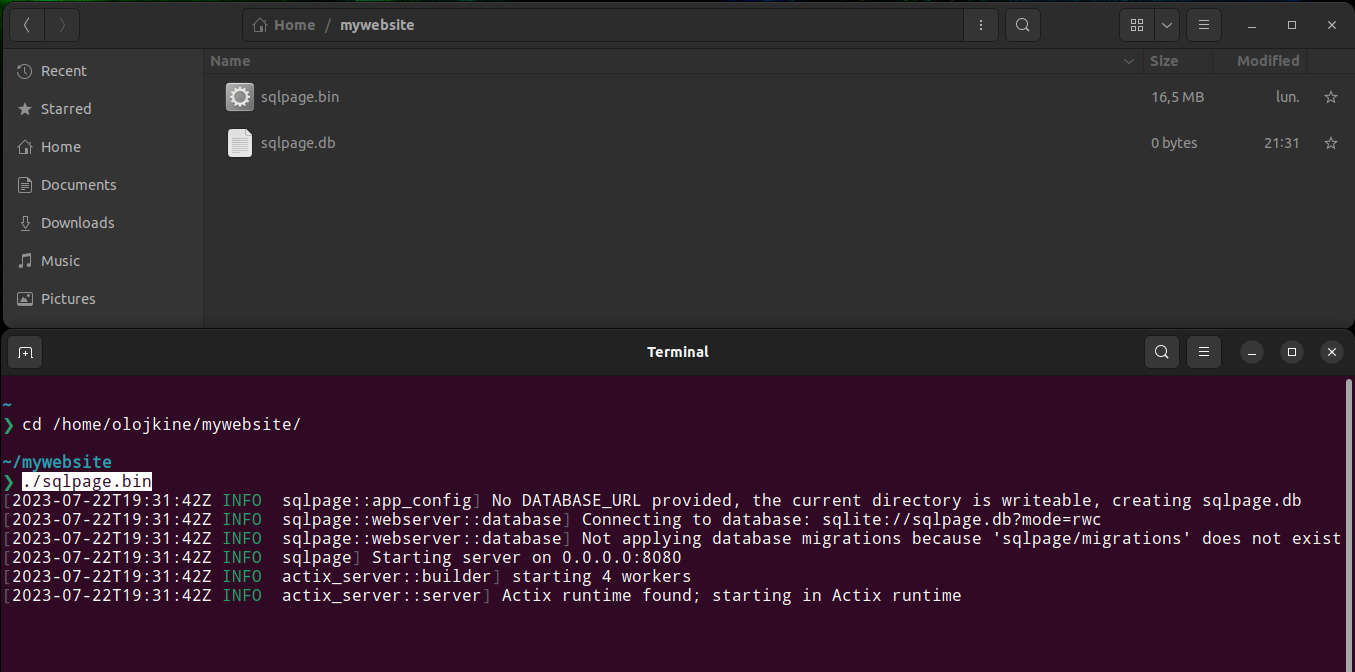
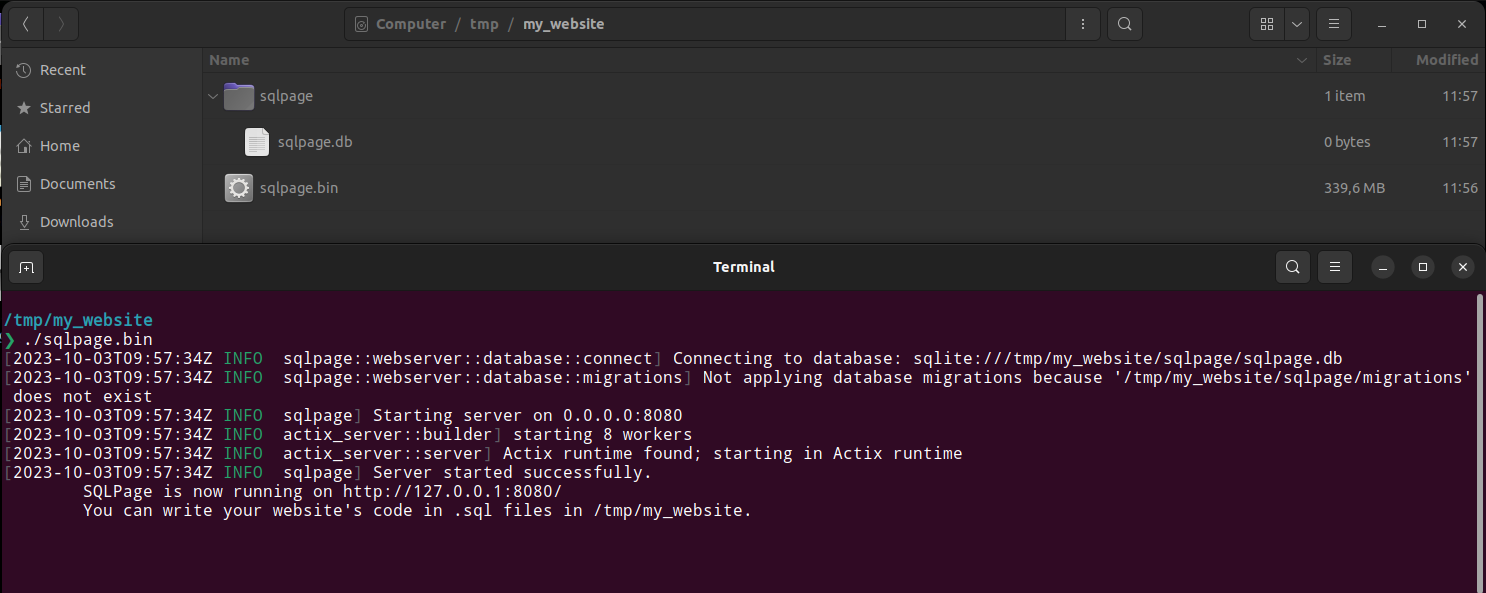
create the config dir if it does not exist

diff --git a/src/app_config.rs b/src/app_config.rs
@@ -100,11 +100,15 @@ fn default_database_url() -> String {
         } else if let Ok(true) = default_db_path.try_exists() {
             log::debug!("Using the default datbase file in {default_db_path:?}.");
             return prefix + default_db_path.to_str().unwrap();
-        } else if let Ok(tmp_file) = std::fs::File::create(&default_db_path) {
-            log::info!("No DATABASE_URL provided, {default_db_path:?} is writable, creating a new database file.");
-            drop(tmp_file);
-            std::fs::remove_file(&default_db_path).expect("removing temp file");
-            return prefix + default_db_path.to_str().unwrap() + "?mode=rwc";
+        } else {
+            // Create the default database file if we can
+            let _ = std::fs::create_dir_all(&default_db_path.parent().unwrap()); // may already exist
+            if let Ok(tmp_file) = std::fs::File::create(&default_db_path) {
+                log::info!("No DATABASE_URL provided, {default_db_path:?} is writable, creating a new database file.");
+                drop(tmp_file);
+                std::fs::remove_file(&default_db_path).expect("removing temp file");
+                return prefix + default_db_path.to_str().unwrap() + "?mode=rwc";
+            }
         }
     }
 
